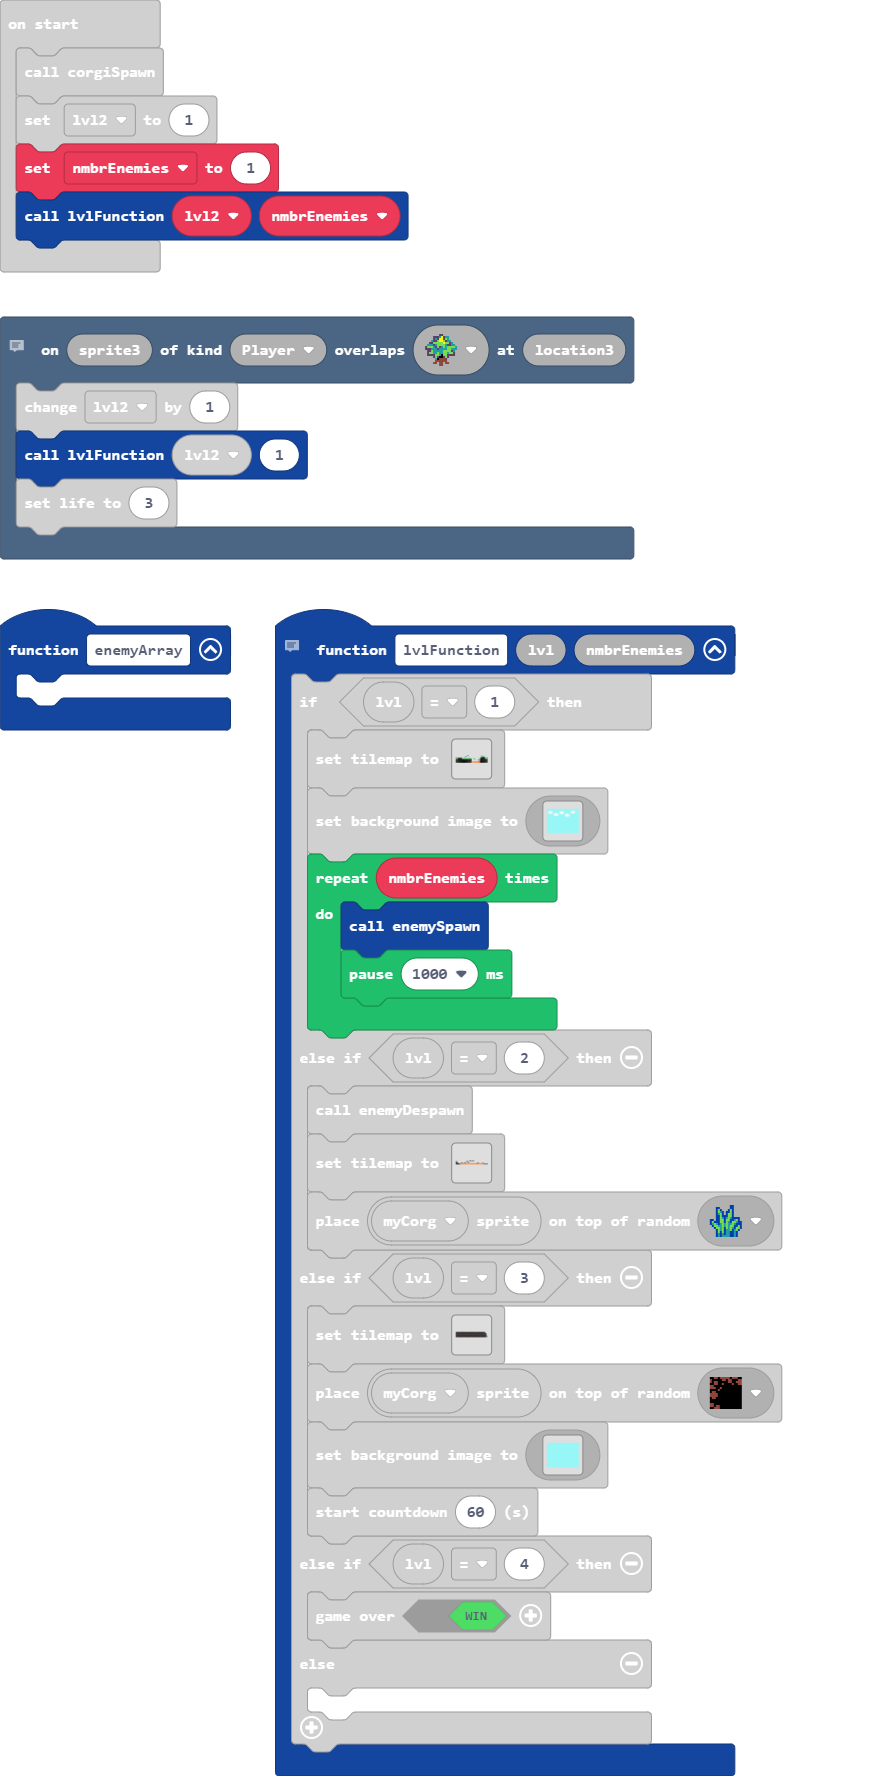
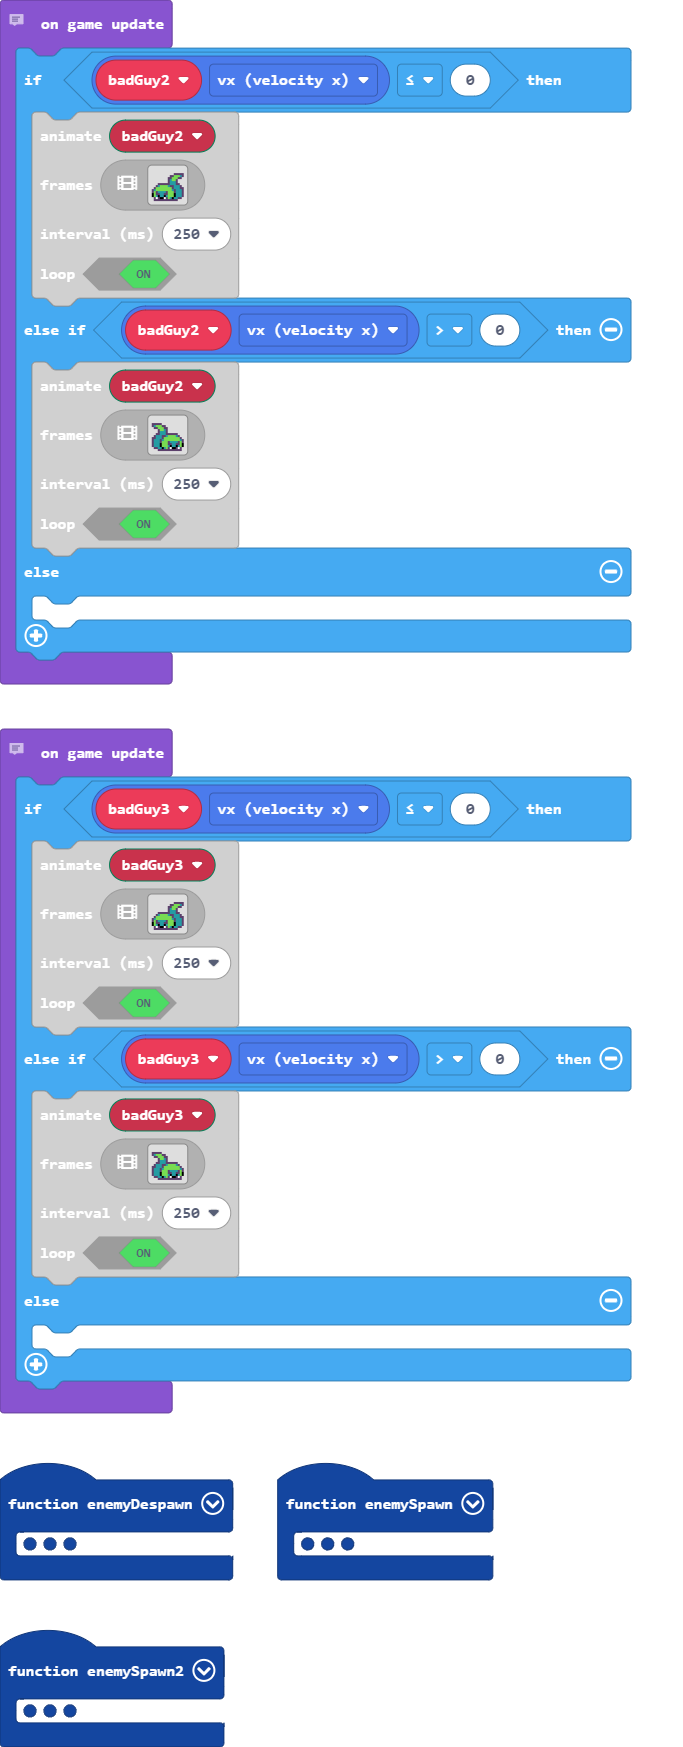
added an array to spawn enemy sprites at random

diff --git a/main.ts b/main.ts
@@ -4,7 +4,7 @@ namespace SpriteKind {
 }
 // This spawns in the enemies and starts their movement.
 function enemySpawn () {
-    Frog1 = sprites.create(img`
+    badGuy2 = sprites.create(img`
         . . . . . . . . . . . . . . . . 
         . . . . . . . . . . . . . . . . 
         . . . . . . . . . . . c c c c c 
@@ -22,8 +22,8 @@ function enemySpawn () {
         . c 1 c f f 1 c 7 6 f 6 6 c c . 
         . c c c c c c c c c c c c . . . 
         `, SpriteKind.enemyFrog)
-    tiles.placeOnRandomTile(Frog1, assets.tile`myTile1`)
-    Frog1.setVelocity(-20, 0)
+    tiles.placeOnRandomTile(badGuy2, assets.tile`myTile1`)
+    badGuy2.setVelocity(-20, 0)
     Frog2 = sprites.create(img`
         . . . . . . . . . . . . . . . . 
         . . . . . . . . . . . . . . . . 
@@ -44,7 +44,7 @@ function enemySpawn () {
         `, SpriteKind.enemyFrog)
     tiles.placeOnRandomTile(Frog2, assets.tile`myTile3`)
     Frog2.setVelocity(20, 0)
-    Frog3 = sprites.create(img`
+    badGuy3 = sprites.create(img`
         . . . . . . . . . . . . . . . . 
         . . . . . . . . . . . . . . . . 
         . . . . . . . . . . . c c c c c 
@@ -62,8 +62,8 @@ function enemySpawn () {
         . c 1 c f f 1 c 7 6 f 6 6 c c . 
         . c c c c c c c c c c c c . . . 
         `, SpriteKind.enemyFrog)
-    tiles.placeOnRandomTile(Frog3, assets.tile`myTile4`)
-    Frog3.setVelocity(-20, 0)
+    tiles.placeOnRandomTile(badGuy3, assets.tile`myTile4`)
+    badGuy3.setVelocity(-20, 0)
 }
 // This makes the enemies bounce off of walls.
 scene.onHitWall(SpriteKind.enemyFrog, function (sprite, location) {
@@ -349,10 +349,107 @@ function lvlFunction (lvl: number, nmbrEnemies: number) {
 scene.onOverlapTile(SpriteKind.Player, sprites.dungeon.hazardLava1, function (sprite6, location5) {
     info.changeLifeBy(-3)
 })
+// This spawns in the enemies and starts their movement.
+function enemySpawn2 () {
+    enemySprites = [
+    img`
+        ........................
+        ........................
+        ........................
+        ........................
+        ..........fffff.........
+        ........ff11111f........
+        .......fb111111bf.......
+        ......fbd1111111f.......
+        ......fddd111111df......
+        ......fdddd11111df......
+        ......fddddddd11df......
+        ......fddddddd111f......
+        ......fddddddcf11f......
+        .......fbdddb1111bf.....
+        ........fffcfdb1b1f.....
+        .......ffffffffbfbf.....
+        ....ff.fffffffffff......
+        .....ffffffff...........
+        .....ffffffb1b1f........
+        ......ffffffbfbf........
+        ........................
+        ........................
+        ........................
+        ........................
+        `,
+    img`
+        f f f . . . . . . . . f f f . . 
+        c b b c f . . . . . . c c f f . 
+        . c b b c f . . . . . . c c f f 
+        . c c c b f . . . . . . c f c f 
+        . c c b b c f . c c . c c f f f 
+        . c b b c b f c c 3 c c 3 c f f 
+        . c b c c b f c b 3 c b 3 b f f 
+        . . c c c b b c b b b b b b c . 
+        . . . c c c c b b 1 b b b 1 c . 
+        . . . . c c b b b b b b b b b c 
+        . . . . f b b b b c b b b c b c 
+        . . . c f b b b b 1 f f f 1 b f 
+        . . c c f b b b b b b b b b b f 
+        . . . . f c b b b b b b b b f . 
+        . . . . . f c b b b b b b f . . 
+        . . . . . . f f f f f f f . . . 
+        `,
+    img`
+        . . . . . . . . . . . c c c c c 
+        . . . . . . . . . c c 7 7 7 6 c 
+        . . . . . . . . c c 7 7 7 c c . 
+        . . . . . . . . c 6 7 7 c . . . 
+        . . . . . . . . c 6 6 6 c . . . 
+        . . . . . . . . c 6 6 6 c c . . 
+        . . . c c c c c c c 6 6 6 c c . 
+        . . c 6 7 7 7 7 6 c c 6 6 6 c . 
+        . c 7 7 7 7 7 7 7 7 c 6 6 6 c c 
+        c 6 7 7 7 7 7 7 7 7 6 c 6 6 6 c 
+        c 7 c 6 6 6 6 c 7 7 7 c 6 6 6 c 
+        f 7 c c 6 6 c c 7 7 7 f 6 6 6 c 
+        f 7 6 f 6 6 f 6 7 7 7 f 6 6 6 c 
+        . f 7 7 7 7 7 7 7 7 6 f 6 6 c . 
+        . c 1 c f f 1 c 7 6 f 6 6 c c . 
+        . c c c c c c c c c c c c . . . 
+        `,
+    img`
+        . . . . . . . . . . . . . . . . 
+        . . . . c c c c . . . . . . . . 
+        . . c c 5 5 5 5 c c . . . . . . 
+        . c 5 5 5 5 5 5 5 5 c . . . . . 
+        c 5 5 5 5 5 1 f 5 5 5 c . . . . 
+        c 5 5 5 5 5 f f 5 5 5 5 c . . . 
+        c 5 5 5 5 5 5 5 5 5 5 5 c . . . 
+        c c b b 1 b 5 5 5 5 5 5 d c . . 
+        c 5 3 3 3 5 5 5 5 5 d d d c . . 
+        . b 5 5 5 5 5 5 5 5 d d d c . . 
+        . . c b b c 5 5 b d d d d c . . 
+        . c b b c 5 5 b b d d d d c c c 
+        . c c c c c c d d d d d d d d c 
+        . . . c c c c d 5 5 b d d c c . 
+        . . c b b c c c 5 5 b c c . . . 
+        . . c c c c c d 5 5 c . . . . . 
+        `
+    ]
+    badGuyRand = enemySprites._pickRandom()
+    badGuy1 = sprites.create(badGuyRand, SpriteKind.enemyFrog)
+    tiles.placeOnRandomTile(badGuy1, assets.tile`myTile1`)
+    badGuy1.setVelocity(-20, 0)
+    badGuyRand2 = enemySprites._pickRandom()
+    badGuy2 = sprites.create(badGuyRand2, SpriteKind.enemyFrog)
+    tiles.placeOnRandomTile(badGuy2, assets.tile`myTile3`)
+    badGuy2.setVelocity(20, 0)
+    badguyRand3 = enemySprites._pickRandom()
+    badGuy3 = sprites.create(badguyRand3, SpriteKind.enemyFrog)
+    tiles.placeOnRandomTile(badGuy3, assets.tile`myTile4`)
+    badGuy3.setVelocity(-20, 0)
+}
 function enemyDespawn () {
-    Frog1.destroy()
+    badGuy2.destroy()
     Frog2.destroy()
-    Frog3.destroy()
+    badGuy3.destroy()
 }
 // This makes the enemies bounce on this type of block which stops them from going places without stopping the corgi as well.
 scene.onOverlapTile(SpriteKind.enemyFrog, assets.tile`myTile5`, function (sprite5, location4) {
@@ -389,10 +486,15 @@ function enemyArray () {
 	
 }
 let projectile: Sprite = null
+let badguyRand3: Image = null
+let badGuyRand2: Image = null
+let badGuy1: Sprite = null
+let badGuyRand: Image = null
+let enemySprites: Image[] = []
 let myCorg: Corgio = null
-let Frog3: Sprite = null
+let badGuy3: Sprite = null
 let Frog2: Sprite = null
-let Frog1: Sprite = null
+let badGuy2: Sprite = null
 let lvl2 = 0
 corgiSpawn()
 lvl2 = 1
@@ -488,9 +590,9 @@ game.onUpdate(function () {
 })
 // This animates Frog 1.
 game.onUpdate(function () {
-    if (Frog1.vx <= 0) {
+    if (badGuy2.vx <= 0) {
         animation.runImageAnimation(
-        Frog1,
+        badGuy2,
         [img`
             . . . . . . . . . . . . . . . . 
             . . . . . . . . . . . . . . . . 
@@ -529,9 +631,9 @@ game.onUpdate(function () {
         250,
         true
         )
-    } else if (Frog1.vx > 0) {
+    } else if (badGuy2.vx > 0) {
         animation.runImageAnimation(
-        Frog1,
+        badGuy2,
         [img`
             . . . . . . . . . . . . . . . . 
             . . . . . . . . . . . . . . . . 
@@ -576,9 +678,9 @@ game.onUpdate(function () {
 })
 // This animates Frog 3.
 game.onUpdate(function () {
-    if (Frog3.vx <= 0) {
+    if (badGuy3.vx <= 0) {
         animation.runImageAnimation(
-        Frog3,
+        badGuy3,
         [img`
             . . . . . . . . . . . . . . . . 
             . . . . . . . . . . . . . . . . 
@@ -617,9 +719,9 @@ game.onUpdate(function () {
         250,
         true
         )
-    } else if (Frog3.vx > 0) {
+    } else if (badGuy3.vx > 0) {
         animation.runImageAnimation(
-        Frog3,
+        badGuy3,
         [img`
             . . . . . . . . . . . . . . . . 
             . . . . . . . . . . . . . . . . 
